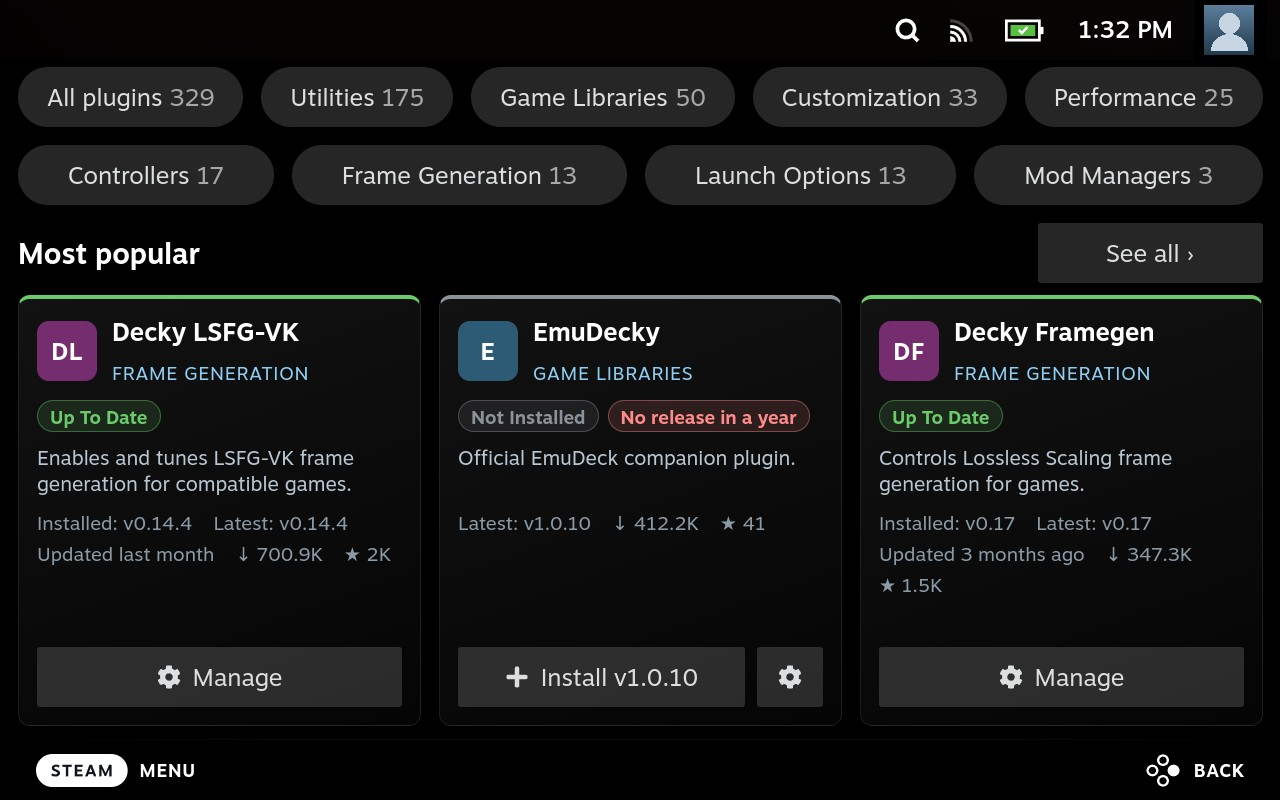
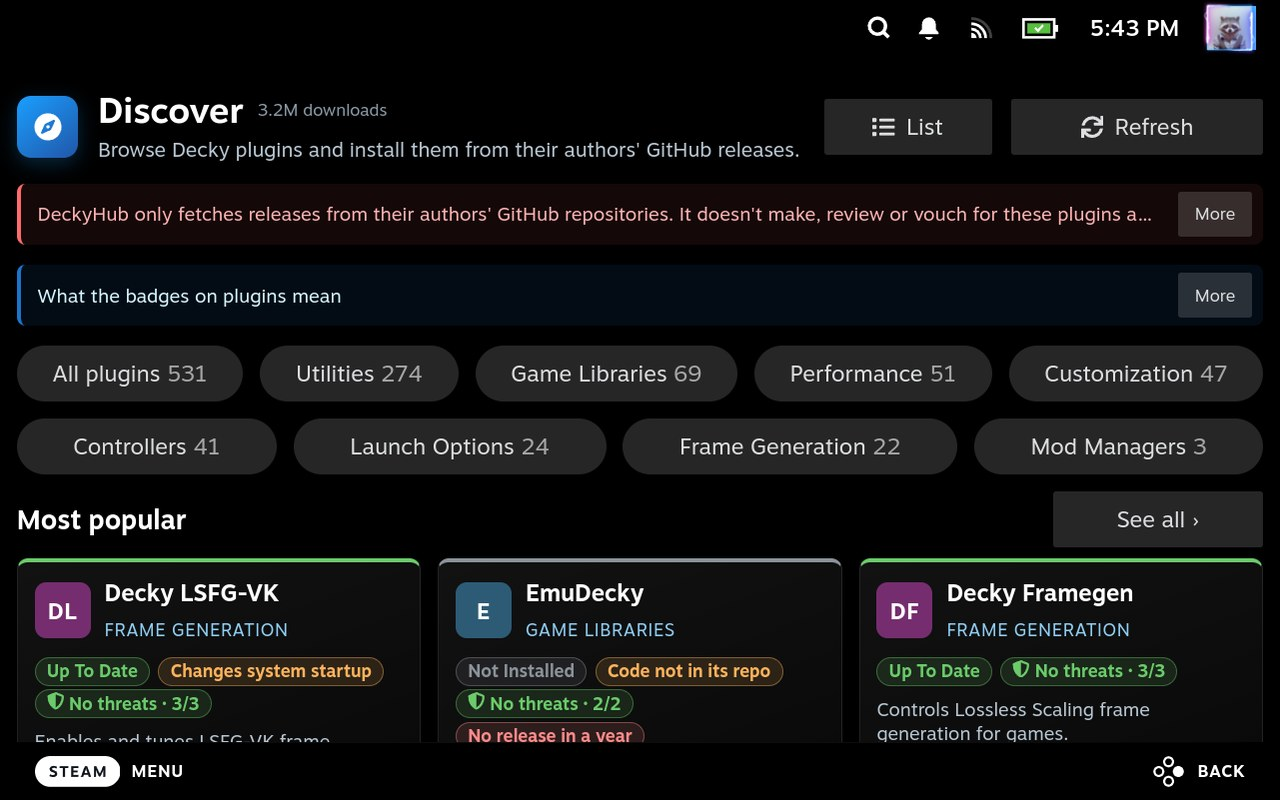
docs: refreshed screenshots, promo images and GIF (#220)

diff --git a/devtools/promo/make_gif.py b/devtools/promo/make_gif.py
@@ -1,0 +1,24 @@
+"""Builds promo/deckyhub.gif (800x500) from the screenshots/ JPGs, with short cross-fades:
+  python devtools/promo/make_gif.py
+Run devtools/deck/screenshots.mjs and screenshots_to_jpg.py first."""
+from pathlib import Path
+from PIL import Image
+
+root = Path(__file__).resolve().parent.parent.parent
+SIZE = (800, 500)
+# (screenshot, how long it stays, in ms)
+SCENES = [("menu", 2200), ("discover", 1800), ("all-plugins", 1600), ("manage", 2600), ("scan-report", 2600), ("updates", 1500), ("search", 1900), ("settings", 1800)]
+FADE_STEPS, FADE_MS = 2, 90
+
+shots = [Image.open(root / "screenshots" / f"{name}.jpg").convert("RGB").resize(SIZE, Image.LANCZOS) for name, _ in SCENES]
+frames, durations = [], []
+for index, (shot, (_, hold)) in enumerate(zip(shots, SCENES)):
+    frames.append(shot)
+    durations.append(hold)
+    following = shots[(index + 1) % len(shots)]
+    for step in range(1, FADE_STEPS + 1):
+        frames.append(Image.blend(shot, following, step / (FADE_STEPS + 1)))
+        durations.append(FADE_MS)
+palette = [frame.quantize(colors=64, method=Image.Quantize.MEDIANCUT, dither=Image.Dither.NONE) for frame in frames]
+palette[0].save(root / "promo" / "deckyhub.gif", save_all=True, append_images=palette[1:], duration=durations, loop=0, optimize=True, disposal=1)
+print("wrote promo/deckyhub.gif", (root / "promo" / "deckyhub.gif").stat().st_size // 1024, "KB,", len(frames), "frames")

diff --git a/devtools/deck/screenshots_to_jpg.py b/devtools/deck/screenshots_to_jpg.py
@@ -1,0 +1,21 @@
+"""Turns screenshots.mjs's PNGs into the JPGs of screenshots/ (1280x800):
+  python devtools/deck/screenshots_to_jpg.py <png-dir>
+The menu is the main screen behind it with the Quick Access panel (its own window) put on the right."""
+import sys
+from pathlib import Path
+from PIL import Image
+
+src = Path(sys.argv[1])
+out = Path(__file__).resolve().parent.parent.parent / "screenshots"
+SIZE = (1280, 800)
+for name in ("discover", "all-plugins", "manage", "updates", "search", "settings", "scan-report"):
+    Image.open(src / f"{name}.png").convert("RGB").resize(SIZE, Image.LANCZOS).save(out / f"{name}.jpg", quality=88)
+
+menu = Image.open(src / "menu-background.png").convert("RGB").resize(SIZE, Image.LANCZOS)
+panel = Image.open(src / "menu-panel.png").convert("RGB")
+scale = SIZE[0] / panel.width
+panel = panel.resize((SIZE[0], round(panel.height * scale)), Image.LANCZOS)
+# The rail and cards fill the panel's left 487 of 1197 px; below the status bar, above the footer.
+width = round(487 * scale)
+menu.paste(panel.crop((0, 0, width, 680)), (SIZE[0] - width, 60))
+menu.save(out / "menu.jpg", quality=88)

diff --git a/README.uk.md b/README.uk.md
@@ -38,6 +38,10 @@
 <td align="center"><img src="screenshots/search.jpg" width="260" alt="DeckyHub шукає плагіни Decky на GitHub"><br><sub><b>Пошук</b></sub></td>
 <td align="center"><img src="screenshots/settings.jpg" width="260" alt="Налаштування DeckyHub у вкладках: «Загальні», GitHub, «Завантаження», «Репозиторії», «Журнали» та «Про програму»"><br><sub><b>Налаштування</b></sub></td>
 </tr>
+<tr>
+<td align="center"><img src="screenshots/discover.jpg" width="260" alt="Екран «Огляд» DeckyHub із категоріями та популярними плагінами, кожен зі значком перевірки на віруси"><br><sub><b>Огляд</b></sub></td>
+<td align="center"><img src="screenshots/scan-report.jpg" width="260" alt="Звіт DeckyHub про перевірку плагіна на віруси: результати ClamAV, YARA і VirusTotal, файл і його SHA-256"><br><sub><b>Звіт про перевірку на віруси</b></sub></td>
+</tr>
 </table>
 
 </div>

diff --git a/README.md b/README.md
@@ -38,6 +38,10 @@ Find, install and update Decky Loader plugins with your controller — from Deck
 <td align="center"><img src="screenshots/search.jpg" width="260" alt="DeckyHub searching GitHub for Decky plugins"><br><sub><b>Search</b></sub></td>
 <td align="center"><img src="screenshots/settings.jpg" width="260" alt="DeckyHub's Settings in tabs: General, GitHub, Downloads, Repositories, Logs and About"><br><sub><b>Settings</b></sub></td>
 </tr>
+<tr>
+<td align="center"><img src="screenshots/discover.jpg" width="260" alt="DeckyHub's Discover screen with category chips and popular plugins, each with its virus scan badge"><br><sub><b>Discover</b></sub></td>
+<td align="center"><img src="screenshots/scan-report.jpg" width="260" alt="DeckyHub's virus scan report for a plugin: ClamAV, YARA and VirusTotal results, the file and its SHA-256"><br><sub><b>Virus scan report</b></sub></td>
+</tr>
 </table>
 
 </div>
